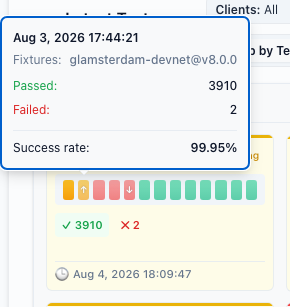
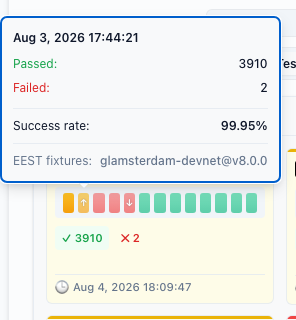
feat: limit fixtures row to EEST sims, label it explicitly
Hive runs more simulators than just EEST, so a generic 'Fixtures'
label in the tooltip was misleading. Gate the row on the suite name
(eest/eels) so non-EEST sims never trigger the fetch, and label it
'EEST fixtures'. Widen the popover so the release tag fits on one
line.

diff --git a/src/components/TestResultCard.tsx b/src/components/TestResultCard.tsx
@@ -291,7 +291,7 @@ const TestResultCard = ({ run, groupBy, directory, directoryAddress }: TestResul
                         minWidth: '200px',
                         fontSize: '0.75rem',
                         color: 'var(--text-primary, #111827)',
-                        maxWidth: '250px'
+                        maxWidth: '300px'
                       }}
                       onInteractOutside={(e: Event) => {
                         // Prevent closing when clicking on the card elements
@@ -311,7 +311,6 @@ const TestResultCard = ({ run, groupBy, directory, directoryAddress }: TestResul
                       <div style={{ fontWeight: '600', marginBottom: '0.5rem' }}>
                         {format(new Date(pastRun.start), 'MMM d, yyyy HH:mm:ss')}
                       </div>
-                      <FixtureVersionRow address={directoryAddress} fileName={pastRun.fileName} />
                       <div style={{ display: 'flex', flexDirection: 'column', gap: '0.4rem' }}>
                         <div style={{ display: 'flex', justifyContent: 'space-between' }}>
                           <span style={{ color: 'var(--success-text, #047857)' }}>Passed:</span>
@@ -328,6 +327,9 @@ const TestResultCard = ({ run, groupBy, directory, directoryAddress }: TestResul
                           </span>
                         </div>
                       </div>
+                      {isEestRun(pastRun.name) && (
+                        <EestFixturesRow address={directoryAddress} fileName={pastRun.fileName} />
+                      )}
                       <Popover.Arrow
                         style={{
                           fill: 'var(--card-bg, #ffffff)',
@@ -405,10 +407,14 @@ const TestResultCard = ({ run, groupBy, directory, directoryAddress }: TestResul
   );
 }
 
+// Only EEST simulators (eest/eels consume-* suites) run against a fixtures
+// release, so the fixtures row is limited to them.
+const isEestRun = (name: string) => /(^|\/)(eest|eels)\//.test(name);
+
 // Shows which EEST fixtures release a run used (e.g. glamsterdam-devnet@v8.0.0).
 // Rendered inside Popover.Content, which Radix only mounts while the popover is
 // open, so the suite JSON head is fetched lazily on first hover and then cached.
-const FixtureVersionRow = ({ address, fileName }: { address: string; fileName: string }) => {
+const EestFixturesRow = ({ address, fileName }: { address: string; fileName: string }) => {
   const { data: version } = useQuery({
     queryKey: ['fixtureVersion', address, fileName],
     queryFn: () => fetchFixtureVersion(address, fileName),
@@ -423,12 +429,13 @@ const FixtureVersionRow = ({ address, fileName }: { address: string; fileName: s
       display: 'flex',
       justifyContent: 'space-between',
       gap: '0.5rem',
-      marginTop: '-0.25rem',
-      marginBottom: '0.5rem',
+      borderTop: '1px solid var(--border-color, rgba(229, 231, 235, 0.4))',
+      paddingTop: '0.5rem',
+      marginTop: '0.5rem',
       color: 'var(--text-secondary, #6b7280)'
     }}>
-      <span>Fixtures:</span>
-      <span style={{ fontWeight: '500', textAlign: 'right', wordBreak: 'break-all' }}>
+      <span style={{ whiteSpace: 'nowrap' }}>EEST fixtures:</span>
+      <span style={{ fontWeight: '500', textAlign: 'right', wordBreak: 'break-word' }}>
         {version}
       </span>
     </div>
